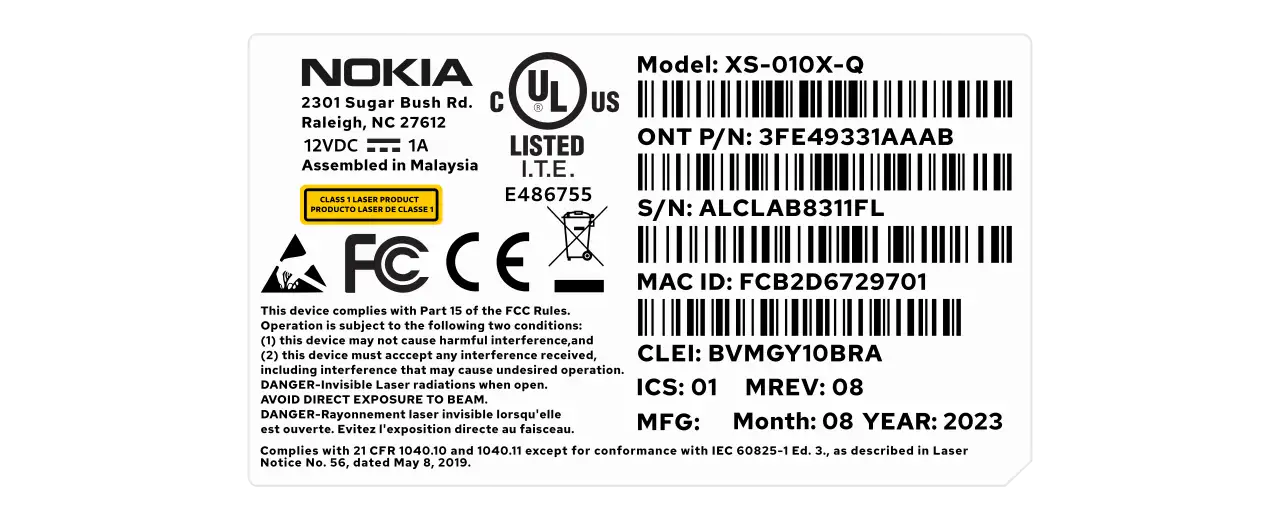
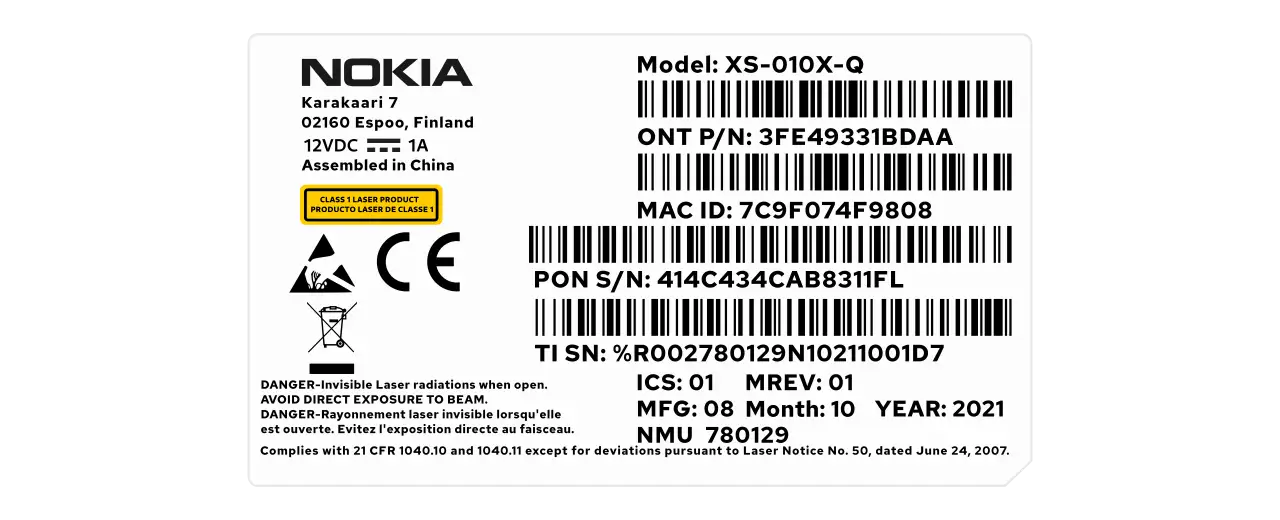
post 10: add attributes for variant without CLEI

diff --git a/docs/posts/swap-out-the-nokia-xs-010x-q-for-a-small-form-factor-pluggable-was-110.md b/docs/posts/swap-out-the-nokia-xs-010x-q-for-a-small-form-factor-pluggable-was-110.md
@@ -62,11 +62,18 @@ outlined in the community firmware installation guide: [Install the 8311 communi
 
 ## WAS-110 masquerade setup
 
-Additionally, mandatory identifiers are available on the back label of the XS-010X-Q, such as ONT P/N, ICS, and CLEI.
+Additionally, mandatory identifiers are available on the back label of the XS-010X-Q, such as ONT P/N, ICS, and CLEI if
+present.
 
 <div id="xs-010x-q-label"></div>
 
-![XS-010X-Q label](swap-out-the-nokia-xs-010x-q-for-a-small-form-factor-pluggable-bfw-solutions-was-110/xs010xq_label.webp){ class="nolightbox" }
+=== "Without CLEI"
+
+    ![XS-010X-Q label](swap-out-the-nokia-xs-010x-q-for-a-small-form-factor-pluggable-bfw-solutions-was-110/xs010xq_label.webp){ class="nolightbox" }
+
+=== "With CLEI"
+
+    ![XS-010X-Q label w/ CLEI](swap-out-the-nokia-xs-010x-q-for-a-small-form-factor-pluggable-bfw-solutions-was-110/xs010xq_label_clei.webp){ class="nolightbox" }
 
 ### from the web UI <small>recommended</small> { #from-the-web-ui data-toc-label="from the web UI"}
 
@@ -100,19 +107,37 @@ Additionally, mandatory identifiers are available on the back label of the XS-01
         <ins>Replace</ins> the __PON Serial Number__, __IP Host MAC address__, __Registration ID__, and
         __Software Version A/B__ with the provisioned values.
 
-    | Attribute                  | Value                         | Remarks                                    |
-    | -------------------------- | ----------------------------- | ------------------------------------------ |
-    | PON Serial Number (ONT ID) | ALCL&hellip;                  | Serial number                              |
-    | Equipment ID               | BVMGY10BRAXS010XQ             | CLEI + Mnemonic                            |
-    | Hardware Version           | 3FE49331AAAB01                | ONT P/N. + ICS                             |
-    | Sync Circuit Pack Version  | :check_mark:                  |                                            |
-    | Software Version A         | 3FE49337AOCK10                | Active software version                    |
-    | Software Version B         | 3FE49337AOCK80                | Standby software version                   |
-    | Firmware Version Match     | ^(3FE4933\d[A-Z]OCK\d{2})$    |                                            |
-    | Registration ID            |                               | Input if __ONT ID__ is not null (all 00's) |
-    | MIB File                   | /etc/mibs/prx300_1U.ini       | PPTP i.e. default value                    |
-    | PON Slot                   | 10                            |                                            |
-    | IP Host MAC Address        | FC:B2:D6:18:47:40             | MAC ID                                     |
+    === "Without CLEI"
+
+        | Attribute                  | Value                         | Remarks                                    |
+        | -------------------------- | ----------------------------- | ------------------------------------------ |
+        | PON Serial Number (ONT ID) | ALCL&hellip;                  | Serial number                              |
+        | Equipment ID               | \_\_\_\_\_\_\_\_\_XS-010X-Q\__| Model                                      |
+        | Hardware Version           | 3FE49331BDAA01                | ONT P/N. + ICS                             |
+        | Sync Circuit Pack Version  | :check_mark:                  |                                            |
+        | Software Version A         | 3FE49337BOCK17                | Active software version                    |
+        | Software Version B         | 3FE49337AOCK80                | Standby software version                   |
+        | Firmware Version Match     | ^(3FE4933\d[A-Z]OCK\d{2})$    |                                            |
+        | Registration ID            |                               | Input if __ONT ID__ is not null (all 00's) |
+        | MIB File                   | /etc/mibs/prx300_1U.ini       | PPTP i.e. default value                    |
+        | PON Slot                   | 10                            |                                            |
+        | IP Host MAC Address        | 7C:9f:07:4F:98:08             | MAC ID                                     |
+
+    === "With CLEI"
+
+        | Attribute                  | Value                         | Remarks                                    |
+        | -------------------------- | ----------------------------- | ------------------------------------------ |
+        | PON Serial Number (ONT ID) | ALCL&hellip;                  | Serial number                              |
+        | Equipment ID               | BVMGY10BRAXS010XQ             | CLEI + Mnemonic                            |
+        | Hardware Version           | 3FE49331AAAB01                | ONT P/N. + ICS                             |
+        | Sync Circuit Pack Version  | :check_mark:                  |                                            |
+        | Software Version A         | 3FE49337AOCK10                | Active software version                    |
+        | Software Version B         | 3FE49337AOCK80                | Standby software version                   |
+        | Firmware Version Match     | ^(3FE4933\d[A-Z]OCK\d{2})$    |                                            |
+        | Registration ID            |                               | Input if __ONT ID__ is not null (all 00's) |
+        | MIB File                   | /etc/mibs/prx300_1U.ini       | PPTP i.e. default value                    |
+        | PON Slot                   | 10                            |                                            |
+        | IP Host MAC Address        | FC:B2:D6:18:47:40             | MAC ID                                     |
 
 3. __Save__ changes and reboot from the __System__ menu.
 
@@ -130,22 +155,43 @@ Additionally, mandatory identifiers are available on the back label of the XS-01
         <ins>Replace</ins> the __8311_gpon_sn__, __8311_iphost_mac__, and __8311_sw_verA/B__ with
         the provisioned values.
 
-    ``` sh
-    fwenv_set -8 iphost_mac FC:B2:D6:18:47:40 # (1)!
-    fwenv_set -8 gpon_sn ALCL... # (2)!
-    fwenv_set -8 equipment_id BVMGY10BRAXS010XQ # (3)!
-    fwenv_set -8 hw_ver 3FE49331AAAB01 # (4)!
-    fwenv_set -8 cp_hw_ver_sync 1
-    fwenv_set -8 sw_verA 3FE49337AOCK10
-    fwenv_set -8 sw_verB 3FE49337AOCK80
-    fwenv_set -8 -b fw_match '^(3FE4933\d[A-Z]OCK\d{2})$'
-    fwenv_set -8 pon_slot 10
-    ```
+    === "Without CLEI"
 
-    1. MAC ID
-    2. Serial number or S/N
-    3. CLEI + Mnemonic
-    4. ONT P/N + ICS
+        ``` sh
+        fwenv_set -8 iphost_mac 7C:9f:07:4F:98:08 # (1)!
+        fwenv_set -8 gpon_sn ALCL... # (2)!
+        fwenv_set -8 equipment_id _________XS-010X-Q__ # (3)!
+        fwenv_set -8 hw_ver 3FE49331BDAA01 # (4)!
+        fwenv_set -8 cp_hw_ver_sync 1
+        fwenv_set -8 sw_verA 3FE49337BOCK17
+        fwenv_set -8 sw_verB 3FE49337AOCK80
+        fwenv_set -8 -b fw_match '^(3FE4933\d[A-Z]OCK\d{2})$'
+        fwenv_set -8 pon_slot 10
+        ```
+
+        1. MAC ID
+        2. Serial number or S/N
+        3. Model
+        4. ONT P/N + ICS
+
+    === "With CLEI"
+
+        ``` sh
+        fwenv_set -8 iphost_mac FC:B2:D6:18:47:40 # (1)!
+        fwenv_set -8 gpon_sn ALCL... # (2)!
+        fwenv_set -8 equipment_id BVMGY10BRAXS010XQ # (3)!
+        fwenv_set -8 hw_ver 3FE49331AAAB01 # (4)!
+        fwenv_set -8 cp_hw_ver_sync 1
+        fwenv_set -8 sw_verA 3FE49337AOCK10
+        fwenv_set -8 sw_verB 3FE49337AOCK80
+        fwenv_set -8 -b fw_match '^(3FE4933\d[A-Z]OCK\d{2})$'
+        fwenv_set -8 pon_slot 10
+        ```
+
+        1. MAC ID
+        2. Serial number or S/N
+        3. CLEI + Mnemonic
+        4. ONT P/N + ICS
 
     !!! info "Additional details and variables are described at the original repository [^1]"
         `/usr/sbin/fwenv_set` is a helper script that executes `/usr/sbin/fw_setenv` twice consecutively.
